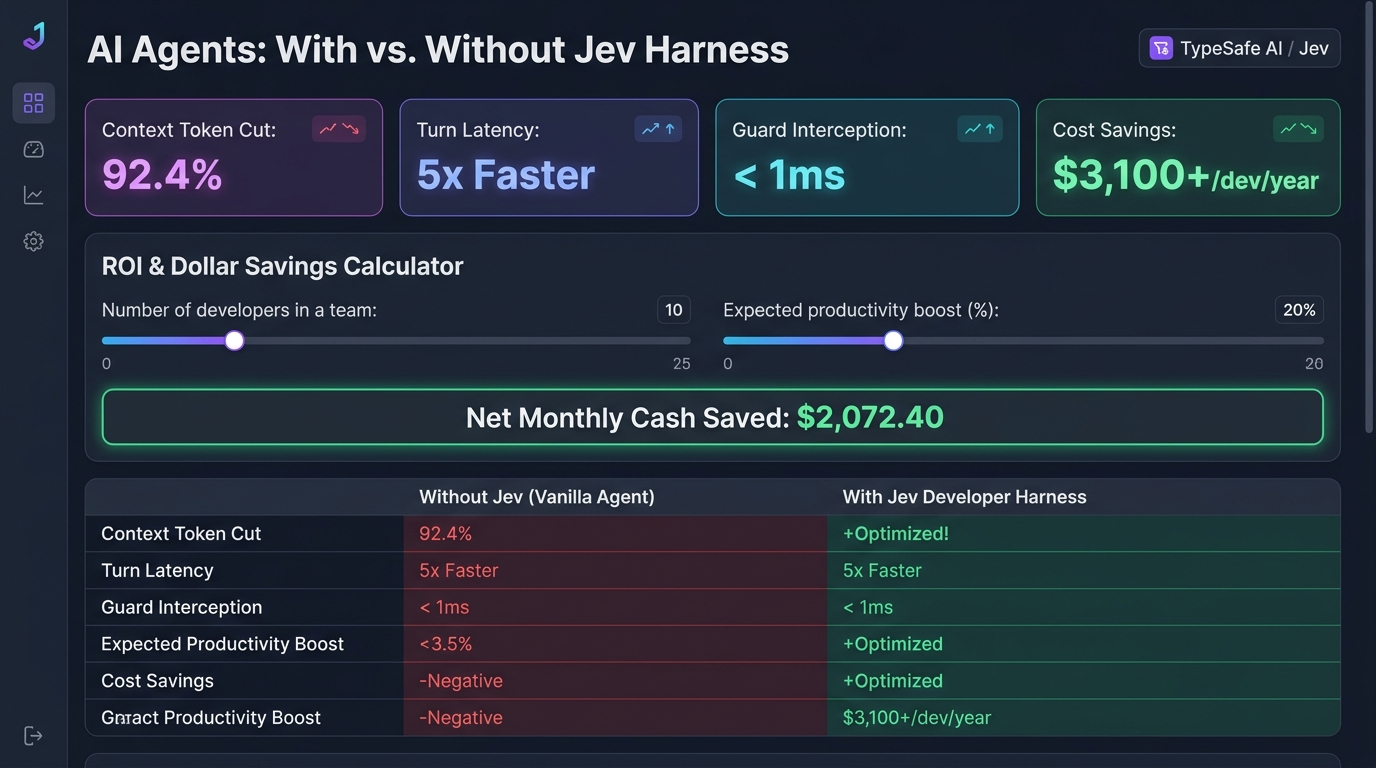
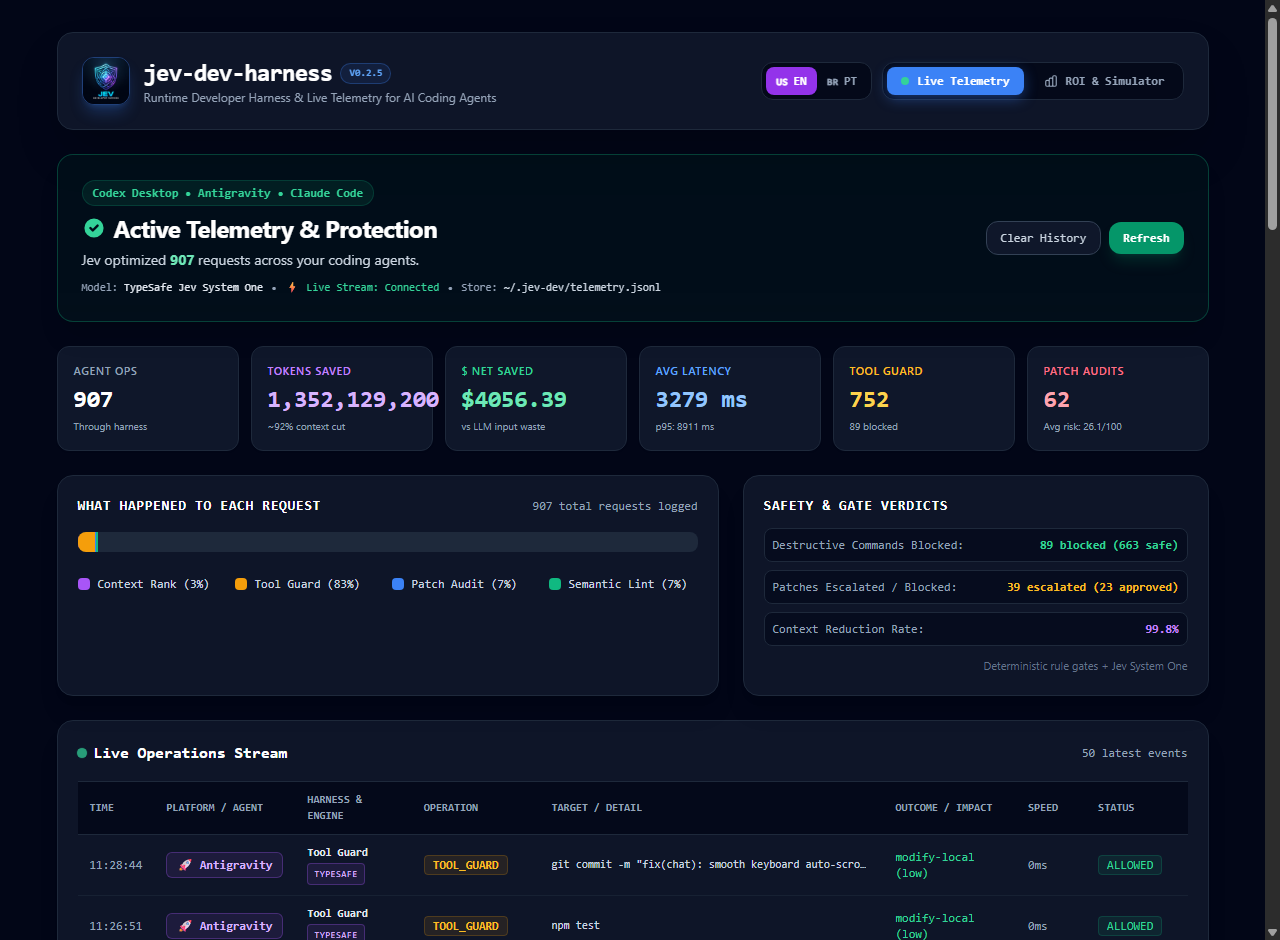
docs: update README with v0.2.5 commands, 7 agent rules, and modern dashboard screenshots

diff --git a/dashboard/index.html b/dashboard/index.html
@@ -1066,9 +1066,15 @@
     }
 
     // Init & Language Auto-detection
+    const urlParams = new URLSearchParams(window.location.search);
+    const queryLang = urlParams.get('lang');
     const savedLang = localStorage.getItem('jev_dashboard_lang');
     const browserLang = (navigator.language || '').toLowerCase().startsWith('pt') ? 'pt' : 'en';
-    setLanguage(savedLang || browserLang);
+    setLanguage(queryLang || savedLang || browserLang);
+
+    if (urlParams.get('tab') === 'roi' || window.location.hash === '#roi') {
+      switchTab('roi');
+    }
 
     refreshData();
     initLiveStream();

diff --git a/README.md b/README.md
@@ -10,7 +10,7 @@
 
 <p align="center">
   <a href="https://www.npmjs.com/package/jev-dev-harness"><img src="https://img.shields.io/npm/v/jev-dev-harness.svg?color=cb3837" alt="npm version" /></a>
-  <img src="https://img.shields.io/badge/tests-121%20passing-brightgreen.svg" alt="Tests" />
+  <img src="https://img.shields.io/badge/tests-142%20passing-brightgreen.svg" alt="Tests" />
   <img src="https://img.shields.io/badge/TypeScript-5.8-blue.svg" alt="TypeScript" />
   <img src="https://img.shields.io/badge/Node.js-22+-green.svg" alt="Node" />
   <a href="LICENSE"><img src="https://img.shields.io/badge/License-MIT-yellow.svg" alt="License: MIT" /></a>
@@ -52,7 +52,7 @@ Large Language Models (LLMs) are exceptional at generative synthesis and reasoni
 How much faster, cheaper, and safer is programming with an AI coding agent (Codex, Antigravity, Claude Code, Cursor) when using `jev-dev-harness`?
 
 <p align="center">
-  <img src="docs/images/dashboard-preview.png" alt="Jev Developer Harness Dashboard Comparison" width="100%" />
+  <img src="docs/images/dashboard-roi-preview.png" alt="Jev Developer Harness ROI & Benchmark Simulator" width="100%" />
 </p>
 
 ### 💡 Key Benchmarks at a Glance
@@ -80,22 +80,24 @@ npx -y jev-dev compare
 
 ---
 
-## ⚡ Key Modules
+## ⚡ Key Modules & CLI Commands
 
-| Module | Command | Purpose |
-| :--- | :--- | :--- |
-| **Context Ranker** | `jev-dev context rank` | Selects the top 3-5 crucial files for a task, reducing token bloat by 88%–94%. |
-| **Tool Call Guard** | `jev-dev guard check` | Intercepts agent commands in <1ms, categorizing operations into `read-only`, `modify-local`, `destructive-local`, `network`, or `production-sensitive`. |
-| **Patch Reviewer** | `jev-dev patch review` | Fast triage of git diffs before commit/PR. Detects scope creep, credential exposure, database mutations, and missing tests. |
-| **Semantic Linter** | `jev-dev lint semantic` | Automated architectural drift detection in GitHub Actions CI (prevents UI/database mixing, dangerous migrations, etc.). |
-| **Git Hook Automation** | `jev-dev hooks install` | 1-click installer for git pre-commit safety gate. Blocks commits containing leaked credentials or critical regression risk. |
-| **MCP Server** | `jev-dev mcp` | Standard Model Context Protocol (stdio) exposing all 4 tools to Cursor, Claude Desktop, Antigravity. |
-| **Benchmark & ROI** | `jev-dev compare` | Live comparison of agent speed, token reduction, and dollar savings with vs. without Jev. |
-| **Live Dashboard** | `jev-dev dashboard` | Real-time web dashboard with SSE streaming to monitor active agent operations, token cuts, and dollar savings. |
-| **Health & Diagnostics** | `jev-dev doctor` | Verifies active status, tests AI connectivity, audits MCP integrations, and auto-generates agent rule files (`--init-rules`). |
-| **Setup Wizard** | `jev-dev setup` | 1-minute interactive CLI to configure API keys (TypeSafe/OpenRouter) and auto-register agents. |
-| **Auto-Update** | `jev-dev update` | 1-click upgrade to the latest npm release, with non-blocking background notifications. |
-| **Clean Uninstall** | `jev-dev uninstall` | 1-click clean uninstaller. Removes all MCP entries across IDEs, git hooks, and `~/.jev-dev` data. |
+| Module / Command | Purpose |
+| :--- | :--- |
+| `jev-dev version` | Inspects currently installed harness version, latest on npm registry, package path, runtime details, and install type. |
+| `jev-dev context rank` | Selects the top 3-5 crucial files for a task, reducing token bloat by 88%–94%. |
+| `jev-dev guard check` | Intercepts commands in <1ms, categorizing operations into `read-only`, `modify-local`, `destructive-local`, `network`, or `production-sensitive`. |
+| `jev-dev patch review` | Fast triage of git diffs before commit/PR. Detects scope creep, credential exposure, database mutations, and missing tests. |
+| `jev-dev lint semantic` | Automated architectural drift detection in GitHub Actions CI (prevents UI/database mixing, dangerous migrations, etc.). |
+| `jev-dev hooks install` | 1-click installer for git pre-commit safety gate. Blocks commits containing leaked credentials or critical regression risk. |
+| `jev-dev mcp` | Standard Model Context Protocol (stdio) exposing all 4 tools to Cursor, Claude Desktop, Antigravity, VS Code. |
+| `jev-dev compare` | Live comparison of agent speed, token reduction, and dollar savings with vs. without Jev. |
+| `jev-dev dashboard` | Real-time web dashboard with SSE streaming, platform origin detection, and interactive ROI simulator. |
+| `jev-dev doctor` | System health check: AI connectivity ping, MCP integrations, telemetry status, and auto-generates 7 agent rule files (`--init-rules`). |
+| `jev-dev setup` | 1-minute interactive CLI wizard to configure providers and auto-register agents. Supports `-y` for non-interactive execution. |
+| `jev-dev provider` | Inspects or switches the active AI provider (`typesafe`, `vercel`, `openrouter`, `offline`) on the fly. |
+| `jev-dev update` | 1-click upgrade to the latest npm release, with smart cache eviction and non-blocking notifications. |
+| `jev-dev uninstall` | 1-click clean uninstaller. Removes all MCP entries across IDEs, git hooks, rule files, and `~/.jev-dev` data. |
 
 ---
 
@@ -484,20 +486,37 @@ Add to `~/.gemini/antigravity/mcp_config.json`:
 
 ---
 
-## 🤖 Integration with AI Coding Agents
+## 🤖 Integration with AI Coding Agents & Rule Files
 
-`jev-dev-harness` ships with official agent skills located in `.agents/skills/`:
+`jev-dev-harness` ships with official agent rules and skills for all major coding agents and extensions:
+
 * `jev-context-ranker`: Instructs agents to rank context before loading files.
 * `jev-tool-guard`: Instructs agents to verify shell commands before execution.
 * `jev-patch-reviewer`: Instructs agents to audit git diffs before completing tasks.
 
-These are natively discovered by **Antigravity**, **Codex**, and any agent adhering to standard skill conventions.
+### 📋 Supported IDEs & Agent Rule Files
+The harness automatically generates and audits 7 dedicated agent instruction files so that agents adhere strictly to pre-execution checks and efficiency reporting:
+
+| Agent / Extension | Rule File | Purpose |
+| :--- | :--- | :--- |
+| **Antigravity IDE** | `GEMINI.md` | Injected into Gemini/Antigravity coding sessions |
+| **Codex (Desktop & VS Code)** | `CODEX.md` | Injected into Codex agent workspaces |
+| **Claude Code** | `CLAUDE.md` | Injected into Claude Code CLI & desktop prompts |
+| **VS Code (Cline & Roo Code)** | `.clinerules` | Injected into Cline and Roo Code tasks |
+| **Cursor** | `.cursorrules` | Injected into Cursor Composer & chat |
+| **Windsurf (Codeium)** | `.windsurfrules` | Injected into Cascade agent prompts |
+| **GitHub Copilot (VS Code)** | `.github/copilot-instructions.md` | Injected into Copilot Chat & Agent Mode |
+
+Generate all rules in your project in 1 second:
+```bash
+jev-dev doctor --init-rules
+```
 
 ### ⚡ Post-Task Savings & Efficiency Telemetry
 
-When an AI coding agent (such as **Codex Desktop**, **Antigravity**, **Claude Code**, or **Cursor**) invokes `jev_rank_context` or `jev_review_patch`, the MCP server automatically returns real-time efficiency metrics (`efficiencyReport`). 
+When an AI coding agent (such as **Codex**, **Antigravity**, **Claude Code**, **Cline**, or **Cursor**) invokes `jev_rank_context`, `jev_guard_check`, or `jev_review_patch`, the MCP server automatically returns real-time efficiency metrics (`efficiencyReport`) along with agent instructions. 
 
-Agents can present this summary at the conclusion of each completed task, giving developers immediate feedback on resource savings:
+Agents present this mandatory summary at the conclusion of each completed task, giving developers immediate feedback on resource savings:
 
 ```markdown
 ### ⚡ Eficiência Jev
@@ -523,11 +542,18 @@ npx -y jev-dev dashboard --port 8790 --no-open
 npx -y jev-dev dashboard --json
 ```
 
+<p align="center">
+  <img src="docs/images/dashboard-preview.png" alt="Jev Developer Harness Live Telemetry Web Dashboard" width="100%" />
+</p>
+
 **Dashboard Features:**
-* 🟢 **Active Telemetry & Protection Banner:** Live connection indicator showing active coding agents (Codex Desktop, Antigravity, Claude Code).
-* 📊 **Live Key Metrics:** Live counters for Agent Ops, Tokens Saved, $ Net Saved, Jev Avg & p95 Latency, Tool Guard Interceptions, and Patch Audits.
-* 📈 **Request Distribution:** Visual breakdown of operations handled by Jev across your workspace.
-* ⚡ **Live Operations Stream:** Real-time Server-Sent Events (SSE) feed displaying every tool call made by your agent with latency, token savings, and security verdicts.
+* 🟢 **Active Telemetry & Protection Banner:** Live connection indicator showing active coding agents (Codex Desktop, Antigravity, Claude Code, Trae, VS Code).
+* 🏷 **Platform Origin Detection & Badges:** Dedicated visual badges displaying which agent/IDE triggered each tool call (Codex, Antigravity, Claude Code, Trae, VS Code Cline/Roo Code, or Terminal CLI).
+* 🔄 **Real-Time Cross-Process Sync:** Server-Sent Events (SSE) and file synchronizer (<500ms) with zero latency impact on agent workflows.
+* 🌐 **Bilingual Interface (i18n):** Instant toggle between English (`US EN`) and Portuguese (`BR PT`).
+* 📊 **Live Key Metrics:** Real-time counters for Agent Ops, Tokens Saved, $ Net Saved, Jev Avg & p95 Latency, Tool Guard Interceptions, and Patch Audits.
+* 📈 **Request Distribution & Gate Verdicts:** Visual breakdown of operations handled by Jev across your workspace.
+* ⚡ **Live Operations Stream:** Real-time stream displaying every tool call made by your agent with latency, token savings, and security verdicts.
 * 🧮 **ROI & Benchmark Simulator:** Integrated team size & pricing calculator to forecast monthly and annual cost savings.
 
 ---
@@ -552,7 +578,7 @@ Create a `.env` file or export environment variables:
 The repository features comprehensive integration and unit test suites:
 
 ```bash
-# Run full Vitest test suite (106 tests)
+# Run full Vitest test suite (142 tests across 22 test suites)
 npm test
 
 # Run benchmark suite (precision, recall, token reduction)
